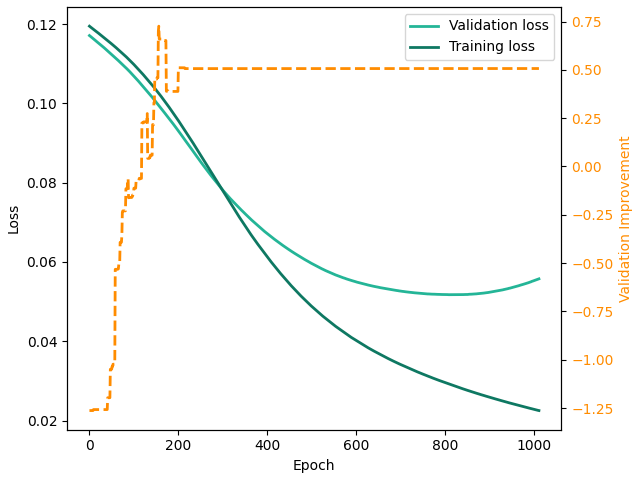
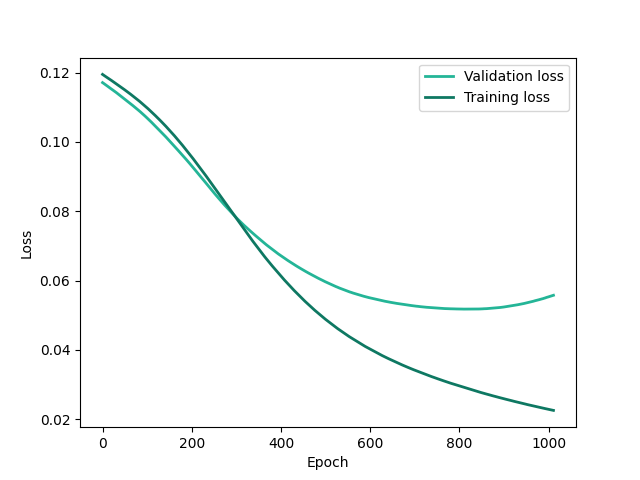
remove improvement curve

diff --git a/index.html b/index.html
@@ -264,7 +264,7 @@
             <img src="./images/liver-laceration-grades.png" width=512px/>
 		    </div>
 		    <div class="margin-right-block" >
-					<p style = "color:darkorange"> Scans of the 5 grades of liver trauma</p><a href="https://www.researchgate.net/publication/361478611/figure/fig1/AS:1169964820119558@1655952758942/Different-types-of-liver-trauma-a1cm-depth-laceration-or-10-surface-area-haematoma.jpg">(credit)</a>
+					<p> Scans of the 5 grades of liver trauma</p><a href="https://www.researchgate.net/publication/361478611/figure/fig1/AS:1169964820119558@1655952758942/Different-types-of-liver-trauma-a1cm-depth-laceration-or-10-surface-area-haematoma.jpg">(credit)</a>
 		    </div>
 		</div>
 
@@ -344,7 +344,7 @@
 				</p>
 		    </div>
 		    <div class="margin-right-block" style="transform: translate(0%, 70%);"> <!-- you can move the margin notes up and down with translate -->
-				<p style = "color:darkorange">	
+				<p>	
 					<b>So what's our contribution?</b> We attempt to contribute to the intersection of prescription and deep learning by relaxing 
 					the restriction to ReLU or binary activation functions and 
 					allowing any type of nonlinear activation functions in the neural network. 
@@ -607,7 +607,7 @@
 				</table>
 			</div>	
 			<div class="margin-right-block">
-				<p style = "color:darkorange">We select all patients that have a liver injury or laceration in the trauma department. 
+				<p >We select all patients that have a liver injury or laceration in the trauma department. 
 					The final cohort contains 722 unique patient encounters.</p>
 			</div>	
 		</div>	
@@ -666,7 +666,6 @@
 				ensemble models in <a href="#table2">Table 2</a>.
 
 				Furthermore, <a href="#figure2">Figure 2</a> plots the training and validation losses. Validation loss reaches its minimum around 800 epochs.
-				Validation improvement plateaus after 200 epochs with an approximately 0.5 improvement.
 				</p>	
 				<table>
 					<caption id="table2" style="color: #0e7862">
@@ -914,7 +913,7 @@
 				</table> -->
 
 				<h4 id="figure2" style="color: #0e7862">
-					Figure 2: Training and Validation Losses and Improvement
+					Figure 2: Training and Validation Losses
 				</h4>
 				<figure>
 					<img src="images/training_curve.png" alt="training curve" style="width:60%;">
@@ -930,7 +929,7 @@
 				</div>
 		    <div class="main-content-block">
 				<h2>Discussion</h2>
-				We find that both the PNN and ensembled PNN models are able to succesfully decrease (improve) mortality rate, with the 
+				We find that both the PNN and ensembled PNN models are able to successfully decrease (improve) mortality rate, with the 
 				ensemble models outperforming the individual PNN models! Furthermore, we also find that within each random data split, the 
 				ensemble model is much more stable than the individual models; both for the tabular 
 				models and particularly for the multimodal models within each seed in <a href="#table2">Table 2</a> , the standard deviation of the 
